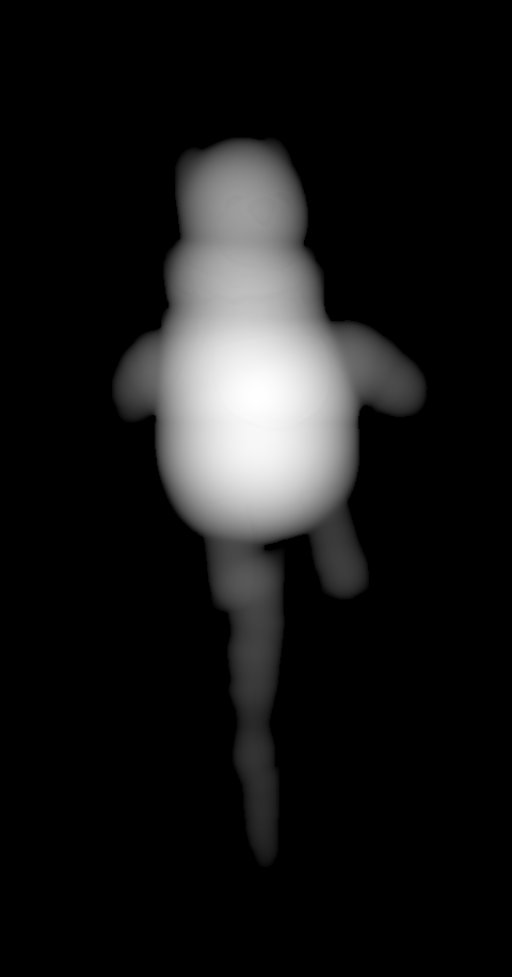
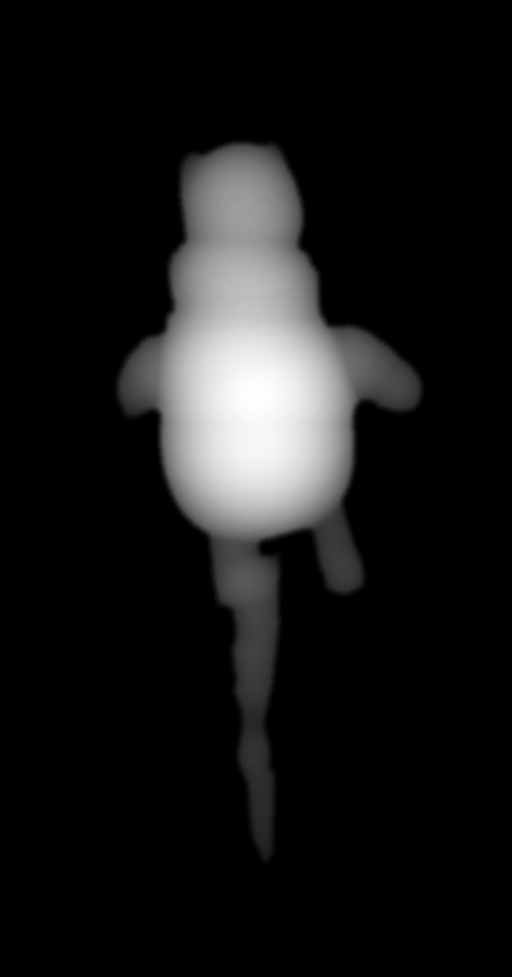
MUCH LOVED: 인형이 찢어져 보이던 것 고침(앞뒷면 테두리 맞붙게·깊이 읽는 방식 통일·테두리 배경색 띠 제거)
Claude-Session: https://claude.ai/code/session_012fgrQSuz8bdMe6fYoW4Pch

diff --git a/js/muchloved.js b/js/muchloved.js
@@ -238,7 +238,8 @@ function wearMaterial(d) {
       .replace('#include <map_fragment>', `#include <map_fragment>
         vec3 wr = texture2D(uWear, vWUv).rgb;
         float n1 = vn(vWUv * 90.0), n2 = vn(vWUv * 23.0);
-        float tear = min(wr.g, 0.72) + (n1 - 0.5) * 0.25 + (n2 - 0.5) * 0.2;
+        // 결 무늬는 해진 자국이 있는 곳에만(만지지 않은 곳에 얼룩이 생기지 않게)
+        float tear = min(wr.g, 0.72) + ((n1 - 0.5) * 0.25 + (n2 - 0.5) * 0.2) * smoothstep(0.02, 0.12, wr.g);
         // 손때: 문지른 만큼 어둡고 누렇게, 결을 따라 얼룩지게
         float dirt = clamp(wr.r * (0.7 + n2 * 0.6) * 1.3, 0.0, 1.0);
         diffuseColor.rgb = mix(diffuseColor.rgb, diffuseColor.rgb * vec3(0.42, 0.34, 0.26), dirt);
@@ -255,7 +256,7 @@ function wearMaterial(d) {
       .replace('#include <emissivemap_fragment>', `#include <emissivemap_fragment>
         totalEmissiveRadiance += vec3(1.0, 0.72, 0.36) * uGlow * (gW * 0.32 + 0.08) * (0.6 + 0.4 * n1);`);
   };
-  m.customProgramCacheKey = () => 'wear6';
+  m.customProgramCacheKey = () => 'wear7';
   return m;
 }
 
@@ -263,11 +264,11 @@ function wearMaterial(d) {
 const dolls = new Map(); // id → doll (만들어진 것)
 const making = new Map(); // id → Promise
 let _th = null;
-const thick = () => _th || (_th = fetch(A + 'r/depth.json?v=1').then((r) => r.json()).catch(() => ({})));
+const thick = () => _th || (_th = fetch(A + 'r/depth.json?v=3').then((r) => r.json()).catch(() => ({})));
 function makeDoll(id) {
   if (making.has(id)) return making.get(id);
   const p = (async () => {
-    const [col, dep, nor, TH] = await Promise.all([tex(A + `r/${id}_color.webp`, 1), tex(A + `r/${id}_depth.png`), tex(A + `r/${id}_normal.webp`), thick()]);
+    const [col, dep, nor, TH] = await Promise.all([tex(A + `r/${id}_color.webp?v=2`, 1), tex(A + `r/${id}_depth.png?v=4`), tex(A + `r/${id}_normal.webp?v=4`), thick()]);
     if (!col) return null;
     const asp = col.image.width / col.image.height;
     // 인형마다 실제 두께(둥근 단면, tools/muchloved-relief/relief2.py) — 없으면 예전 값
@@ -302,18 +303,22 @@ function makeDoll(id) {
 function backMesh(col, dep, asp, bz) {
   const im = col.image, w = 512, h = Math.round(512 / asp);
   const c = document.createElement('canvas'); c.width = w; c.height = h; const x = c.getContext('2d');
-  x.filter = `blur(${Math.round(w * 0.022)}px) saturate(0.8) brightness(0.78)`; x.drawImage(im, 0, 0, w, h); x.filter = 'none';
+  x.filter = `blur(${Math.round(w * 0.012)}px) saturate(0.9) brightness(0.9)`; x.drawImage(im, 0, 0, w, h); x.filter = 'none';
   x.globalCompositeOperation = 'destination-in'; x.drawImage(im, 0, 0, w, h); // 원래 테두리(알파)는 그대로
   const bt = new THREE.CanvasTexture(c); bt.colorSpace = THREE.SRGBColorSpace;
   // 깊이를 꼭짓점에 직접 옮김(빛·그림자가 실제 굴곡을 따르게)
-  const sx = 120, sy = Math.max(48, Math.round(120 / asp));
+  const sx = 200, sy = Math.max(64, Math.round(200 / asp));
   const geo = new THREE.PlaneGeometry(asp, 1, sx, sy);
-  const dc = document.createElement('canvas'); dc.width = sx + 1; dc.height = sy + 1; const dx = dc.getContext('2d', { willReadFrequently: true });
-  dx.drawImage(dep.image, 0, 0, sx + 1, sy + 1); const dd = dx.getImageData(0, 0, sx + 1, sy + 1).data;
+  // 앞면(displacementMap, GPU 선형 보간)과 똑같이 읽어야 테두리에서 앞뒤가 꼭 맞음 → 원본 크기에서 선형 보간
+  const DW = dep.image.width, DH = dep.image.height;
+  const dc = document.createElement('canvas'); dc.width = DW; dc.height = DH; const dx = dc.getContext('2d', { willReadFrequently: true });
+  dx.drawImage(dep.image, 0, 0); const dd = dx.getImageData(0, 0, DW, DH).data;
+  const at = (x, y) => dd[(Math.min(DH - 1, Math.max(0, y)) * DW + Math.min(DW - 1, Math.max(0, x))) * 4] / 255;
   const pos = geo.attributes.position, uv = geo.attributes.uv;
   for (let i = 0; i < pos.count; i++) {
-    const u = uv.getX(i), v = uv.getY(i), px = Math.round(u * sx), py = Math.round((1 - v) * sy);
-    const z = dd[(py * (sx + 1) + px) * 4] / 255; pos.setZ(i, -z * bz);
+    const fx = uv.getX(i) * DW - 0.5, fy = (1 - uv.getY(i)) * DH - 0.5, x0 = Math.floor(fx), y0 = Math.floor(fy), ax = fx - x0, ay = fy - y0;
+    const z = (at(x0, y0) * (1 - ax) + at(x0 + 1, y0) * ax) * (1 - ay) + (at(x0, y0 + 1) * (1 - ax) + at(x0 + 1, y0 + 1) * ax) * ay;
+    pos.setZ(i, -z * bz);
   }
   geo.computeVertexNormals();
   const m = new THREE.Mesh(geo, new THREE.MeshStandardMaterial({ map: bt, alphaTest: 0.5, roughness: 0.92, side: THREE.DoubleSide }));
@@ -506,7 +511,7 @@ dsecs.forEach((s) => near.observe(s));
 let active = null; // 지금 만질 수 있는 인형 장면 { s, d }
 function layout() { const H = innerHeight, Wd = innerWidth; renderer.setSize(Wd, H, false); camera.aspect = Wd / H; camera.updateProjectionMatrix(); }
 addEventListener('resize', layout); layout();
-let tx = 0, ty = 0, rx = 0, ry = 0, mouse = null;
+let tx = 0, ty = 0, rx = 0, ry = 0, mouse = null, dbgTurn = null; // dbgTurn: 시험용 각도(#debug)
 addEventListener('pointermove', (e) => { if (e.pointerType === 'mouse') mouse = { x: e.clientX / innerWidth * 2 - 1, y: e.clientY / innerHeight * 2 - 1 }; });
 const clock = new THREE.Clock();
 let anyOn = false, lastActive = null;
@@ -535,6 +540,7 @@ function frame() {
     const sway = Math.sin(t * 0.33 + d.asp * 3) * 0.32 * idle;
     sp.rotation.set(rx * 1.1 + Math.sin(t * 0.5 + d.asp) * 0.03 * idle, turnIn + ry * (TURN / MAX) + sway, 0);
     sp.position.set(0, 0, 0.12 + (enter + leave) * 0.25); sp.scale.set(1, 1, 1);
+    if (dbgTurn != null) { sp.rotation.set(0, dbgTurn, 0); d.g.rotation.set(0, 0, 0); }
     if (d.mode === 'roll') { sp.rotation.z = -d.rz * 0.55; sp.position.x += d.rz * Math.min(0.3, VW * 0.18 / hT); }
     if (d.done) { // 다 채움: 한 바퀴 돌며 떠오르고, 금빛이 숨 쉬듯
       const k = clamp((performance.now() - d.doneAt) / 1800, 0, 1), e = k < 0.5 ? 2 * k * k : 1 - Math.pow(-2 * k + 2, 2) / 2;
@@ -1000,4 +1006,4 @@ document.title = `MUCH LOVED — ${ARTIST} | ARTMOS`;
 { const dm = document.querySelector('meta[name=description]'); if (dm) dm.content = t('닳고 해진 애착 인형을 손끝으로 다시 만나는 온라인 전시. 김규진 《MUCH LOVED》.'); }
 langSwitcher($('.ml-top'), { before: sb, cls: 'ml-lang' });
 $('.ml-sleep-h').textContent = t('들어 올리면 깨어나요');
-if (location.hash === '#debug') window.__ml = { sensor, dolls, get active() { return active; }, tearStep, shakeNow, stamp, measure, resetDoll, hugIds, snd, get cur() { return cur; } };
+if (location.hash === '#debug') window.__ml = { sensor, dolls, get active() { return active; }, tearStep, shakeNow, stamp, measure, resetDoll, hugIds, snd, get cur() { return cur; }, set turn(v) { dbgTurn = v; } };

diff --git a/muchloved.html b/muchloved.html
@@ -33,6 +33,6 @@
   <main id="ml"></main>
   <div id="ml-sleep" class="ml-sleep" hidden><p class="ml-sleep-t">00:00</p><p class="ml-sleep-h">들어 올리면 깨어나요</p></div>
   <video id="ml-cam" playsinline muted hidden></video>
-  <script type="module" src="js/muchloved.js?v=12"></script>
+  <script type="module" src="js/muchloved.js?v=15"></script>
 </body>
 </html>

diff --git a/tools/muchloved-relief/relief2.py b/tools/muchloved-relief/relief2.py
@@ -37,6 +37,10 @@ def run(folder):
         m = cv2.morphologyEx(m, cv2.MORPH_OPEN, np.ones((3, 3), np.uint8))
         z = inflate(m)
         z = cv2.GaussianBlur(z, (0, 0), 1.6) * m       # 공 사이 이음매만 살짝 고르게
+        # 가장자리에서 두께가 0이 되게(2026-11-25): 둥근 단면은 테두리에서 가파르게 솟아서
+        # 앞면·뒷면이 테두리에서 만나지 못하고 틈이 벌어져 '찢어진' 것처럼 보였음
+        de = cv2.distanceTransform(m, cv2.DIST_L2, 5).astype(np.float32)
+        e = np.clip(de / 10.0, 0, 1); z *= e * e * (3 - 2 * e)   # 테두리 10px 안에서 부드럽게 0으로(격자 4칸쯤)
         # 천의 주름·솔기: 사진 밝기의 잔결을 아주 조금
         g = cv2.cvtColor(cv2.resize(col[:, :, :3], (w, h), interpolation=cv2.INTER_AREA), cv2.COLOR_BGR2GRAY).astype(np.float32) / 255
         hp = g - cv2.GaussianBlur(g, (0, 0), 4)

diff --git a/tools/muchloved-relief/edgebleed.py b/tools/muchloved-relief/edgebleed.py
@@ -1,0 +1,14 @@
+# 오린 인형 테두리에 묻은 배경색(흰 띠)을 안쪽 천 색으로 채움 (2026-11-25)
+# 테두리 3px만 바꾸고 알파(모양)는 그대로. 쓰는 법: python3 edgebleed.py assets/muchloved/r
+import cv2, numpy as np, sys, glob
+for p in sorted(glob.glob(sys.argv[1] + '/*_color.webp')):
+    im = cv2.imread(p, cv2.IMREAD_UNCHANGED); a = im[:, :, 3]
+    inside = (a > 127).astype(np.uint8)
+    d = cv2.distanceTransform(inside, cv2.DIST_L2, 5)
+    band = (inside > 0) & (d <= 3.5)
+    core = ((d > 3.5) * 255).astype(np.uint8)
+    # 안쪽 색을 바깥으로 번지게: 가려진 곳(band) 채우기
+    rgb = im[:, :, :3].copy(); mask = (band | (inside == 0)).astype(np.uint8) * 255
+    filled = cv2.inpaint(rgb, mask, 5, cv2.INPAINT_TELEA)
+    im[:, :, :3][band | (inside == 0)] = filled[band | (inside == 0)]
+    cv2.imwrite(p, im, [cv2.IMWRITE_WEBP_QUALITY, 88]); print(p)

diff --git a/CLAUDE.md b/CLAUDE.md
@@ -20,7 +20,7 @@
 | `bitssal.html` + `js/bitssal.js` | A-003 빛쌀 단독 스크롤 스토리 (캔버스 쌀알 1,900개, 15장면). **PART 1 순이의 이야기**(prologue→life→hunger→demand→street→spread→erased→boundary→mine→truth→light — **2026-11-18 소유자: 광주(1980 주먹밥) 장 'share'는 뺌**, 장 번호는 빛이 10, 글·체험 코드는 파일에 남겨 둠: 이야기·조작만, 기록·사진·영상 없음) → **PART 2 작품과 기록**(work: 조형물·사진·작품 영상 / records: 짧은 기록 7장 / archive). **장마다 읽기 → 체험 순서**(2026-11-14): 장 표지(번호·제목, 이때 쌀알·그림은 거의 꺼짐) → 이야기 카드(읽는 동안 얼굴만 그리고 장면 그림은 흐리게, 숫자·라벨 숨김, 조작·센서는 받지 않음) → 한 화면 띄우고 '체험' 카드(이때부터 조작). 예전 떠오르는 장 제목(chap-flash)은 없앰. **하나씩, 여유 있게**(소유자 요청): 장 표지는 번호→제목→선 차례로, 이야기 카드는 쌀 얼굴이 먼저 그려지고(1.4초) 문단이 함께 나타남(2문단 정도는 한 번에 괜찮음, 소유자), 읽을 시간(글자 수로 4~14초)이 지나야 체험이 열림(`runSeq`, 카드가 화면 밖이면 멈춤). **한 번에 하나만**: 얼굴을 그리는 동안 다른 쌀알·장면 그림은 거의 끔(97%), 장 표지 때도 거의 끔, 위로 지나간 장 표지·이야기 카드는 `.past`로 사라짐. **체험 카드는 바로 앞 이야기를 다 읽어야 열림**(`.card.play.locked` → `opened`, 잠긴 동안 조작·센서 안 받음, '위의 이야기를 다 읽으면 체험이 열려요'). 카드 사이 간격·장 끝 여백을 넓힘(종류가 바뀔 때 크게: 표지→이야기 0.55화면, 이야기→다음 0.9, 체험→다음 0.6, 다른 카드→이야기 0.6). **휴대폰(앱)만: 쌀알이 끊기지 않고 모양을 바꿔 흐름**(2026-11-16, PC는 예전대로): 첫 화면은 쌀알로 된 《빛쌀》 조형물(`sculpt`, 상단 머리와 아래 글 사이에 맞춤, 유리 테두리 `glassW` 안에서만) + 아래 글('한 톨의 쌀알에 얽힌 이야기 / 아흔 살 순이가 대구에서 겪은 일', 4개 언어) → 흩어짐(`dust`) → 아흔 살 순이 얼굴 → '한 그릇 더' → 흩어짐 → **장 제목(이때는 흩어진 채) → 제목이 지나가면 그 장의 모양(`SHAPE_OF`, `js/bitssal-shapes.js`) → 그 모양이 그대로 인물 얼굴로**(얼굴 없는 장은 글이 올라올 때까지 모양 유지) → 글 → 흩어짐 → 체험 카드가 아래에 붙으면(`.docked`) 체험. 모양: 밥상(table)·쌀독(jar)·쌀 한 톨(grain)·등잔(lamp, 켜지 않은)·지도(spread)·경찰(police, 이목구비 없음)·고무신(shoes)·밥 한 그릇(bowl)·7(seven)·주먹밥(riceball)·불꽃(flame). 모드 `mm`: title > face > play > shape > intro > dust. 다른 글('4년 뒤' 등)이 보이면 모양을 띄우지 않음. 장 표지 → 이야기 사이 0.9화면, 다른 글 → 이야기도 0.9화면. **글 뒤 어두운 바탕·테두리 없음**(글자 그림자만, 붙은 체험 카드 아래만 옅은 그라데이션). **휴대폰 체험 바뀜**(`MOB`, 문구 `mia`): ①밥상 = 폰을 주걱처럼 숙였다 들면(`watchScoop`, 기울기 tiltY 흔들림) 가운데 솥에서 밥을 떠 그릇에 담음(3번에 한 그릇, 솥을 눌러도 됨) ②쌀독 = 큰 쌀독만, 흔들어 털면 바닥에 쌀이 쌓임 ④밤 = 새벽에 오빠 얼굴 겹치던 것 뺌 ⑥낮은 목소리 = 체포영장 같은 옛 문서(일러스트, '문서는 이해를 돕기 위한 일러스트')가 먼지에 덮여 있다가 후 불기(마이크)·문지르기로 드러남. **광산부터 줄임**: 광산(손전등)·주먹밥(돌리기) 체험 카드 없음, 빛은 누르기·들어 올리기만(마이크·AR 버튼 뺌), 7월은 그대로. 작품 장 조형물은 기울이면 흐르는 속도만 바뀜(밀림·흔들림 없음). **기억을 위한 한 문장**: 남기면 글자 하나하나가 입력칸에서 불빛처럼 떠올라 빛 장면 하늘(`.mem-sky`, 최근 5문장)에 머묾(PC도 같음, 캔버스 빛 점은 뺌). **마지막 '전시 행성 나가기'**(예전 'ARTMOS 행성계로 돌아가기'가 #story의 pointer-events 때문에 안 눌렸음): 앱 안이면 `postMessage({type:'artmos:close-exhibit'})` → `app.js`가 전시를 닫음, 웹이면 홈으로. **스크롤 끊김 줄이기**(2026-11-17): 쌀알은 색·크기별로 한 번 그려 둔 그림(`grainSprite`)을 회전해서 찍기만 함(매 프레임 도형 1,900개를 새로 그리지 않음, 다 찍은 뒤 `gReset()`), 화면 밖·안 보이는 쌀알은 건너뜀, 흩어진 쌀알은 2/3만, 휴대폰 캔버스는 1.5배 해상도, 주소창 때문에 높이만 조금 바뀌는 resize는 무시(캔버스·카드 다시 배치 안 함), 휴대폰은 화면 전체 필름 입자 애니메이션 멈춤·글자 그림자 한 겹. 측정(휴대폰 크기, CPU 4배 느리게): 쌀알 그리기 JS 프레임당 약 21ms → 11ms. **스크롤 속도 맞춤**(2026-11-17 소유자: 빈칸 줄이기): 휴대폰만 카드 사이 빈칸을 줄임(`GAP_M`: 장 표지→얼굴 이야기 0.35·얼굴 없는 이야기 0.55, 이야기→다음 0.4, 체험→다음 0.4, 체험 뒤 0.6, 기본 간격 0.07, 장면 기본 길이 ×0.75, 얼굴 자리 `.st-stage` 82→70svh — 얼굴 크기는 화면 폭으로 정해져 그대로) → 휴대폰 전체 길이 79화면 → 약 56화면(390px), PC는 그대로 68화면. 붙은 체험 카드는 붙기 전 높이(`_natH`)로 배치해 아래가 들썩이지 않게. 장면·카드 위치는 배치할 때 한 번 재 두고(`GEO`, `cacheGeo()`, `rect(el)`) 프레임마다는 scrollY만 빼서 씀(매 프레임 getBoundingClientRect 17곳 → 0). 쌀알 움직임은 프레임 길이로 보정(`FR`, 120Hz·느린 프레임에서도 같은 빠르기)하고 빨리 스크롤하면(`SCR`, 1.5화면/초면 최대) 더 빨리 모여 글을 바로 따라옴. 진행 막대는 width 대신 transform scaleX. 첫 장면(prologue)은 기본 길이를 줄이지 않음(줄이면 아래 글이 올라가 조형물이 상단 머리와 겹침). 붙은 체험 카드는 가로 스크롤 금지(`overflow-x: hidden`, 예전 그라데이션 조각이 카드 밖으로 나가 아이폰에서 글이 옆으로 밀렸음), 바탕 그라데이션은 카드 안에. 맨 위·아래에서 당길 때 출렁임은 `overscroll-behavior-y: none`. **얼굴·글 한 화면 + 장 모양 머물기**(2026-11-18 소유자): 얼굴 자리 `.st-stage` 70→44svh, 얼굴 크기는 `min(얼굴 자리 높이/2.2, 화면 폭×0.42)`라 얼굴(위아래 약 2배)이 자리 안에 맞고 아래 글 상자와 한 화면에 같이 보임. 장 제목이 지나 나온 장 모양은 적어도 `SHAPE_MIN`(2.4초) 머문 뒤 얼굴·글로 바뀜(빨리 내려도 한 번은 보여 줌, 장마다 한 번), 모양→얼굴 바뀜은 약 1.4초로 천천히, 장 표지→얼굴 이야기 간격 0.35→0.5. **상단 바 위치(2026-11-18)**: 앱 안 전시 틀(iframe)에서는 아이폰이 상태 표시줄 높이(`env(safe-area-inset-top)`)를 0으로 줘서 상단 바가 시계 줄과 겹쳤음 → 빛쌀은 `--sat` 변수로 상단 바·진행 막대·목차·HUD 위치를 잡고, 앱 안 아이폰이면 `bitssal.js` 첫머리가 화면 높이로 어림(852 이상 59px·812 이상 47px·그 밖 20px), 앱이 `postMessage({type:'artmos:safe', top})`로 정확한 값을 보내면 그걸 씀(`app.js` 전시 틀 load 때 보냄 — 앱 틀이라 다음 앱 빌드부터). `bitssal.html` viewport에 `viewport-fit=cover`. **얼굴 없는 이야기엔 물건**(2026-11-18 소유자): 휴대폰에서 얼굴 없는 이야기 카드(밤·번짐·낮은 목소리·한 그릇 더)도 얼굴 자리(`.st-stage`, `data-obj`)를 두고 그 장의 물건(`SHAPE_OF`: 등잔·지도·경찰·밥그릇)을 얼굴처럼 그림(`objPoints`: 높이 2·폭 2.1에 맞춤, 장 모양에서 그대로 옮겨 감). **쌀독 체험**: 털어낸 만큼 독 안 쌀알 수가 줄어 40번 털면 빈 독(예전엔 바닥으로 눌리기만 해서 차 보였음). **대구까지 거리**(번짐 체험, 휴대폰): 위치를 받으면 번짐 약도 위 '지금 나' 자리에서 대구까지 쌀알 360개가 2.5초에 걸쳐 한 줄로 이어지고 가운데 km 표시, 대구 고리가 깜빡임(`geoTrail`, `geoXY` — 지역 덩어리에 맞춘 대략의 투영, 지도 밖·해외면 대구에서 그 방향 지도 끝), 결과 글 끝에 '약도 · 실제 위치와 조금 다를 수 있어요'(4개 언어 `GEO_T`). 위치는 기기 안에서만 씀. 시험 `#debug`면 `window.__bs`(state). **전체 점검(2026-11-18)**: 빛쌀 번호 A-003 → **A-002**(닫힌 전시를 빼고 다시 매긴 번호, `bitssal.js` 맨 위 `NUM`·`bitssal-scenes.js` p0·`bitssal.html` 제목 — 번호가 바뀌면 셋 다), 탭 아이콘(`artmos-mark.svg`) 넣어 favicon 404 없앰, **일본어·중국어 줄바꿈**: `word-break: keep-all`(한국어용)이 띄어쓰기 없는 일본어·중국어 문단을 한 줄로 만들어 휴대폰에서 화면이 옆으로 137px 넘쳤음 → `html:lang(ja|zh)`면 글자 단위 줄바꿈(`bitssal.css`·`style.css` 끝, 최초의 방 등 전시 페이지도 같이). 4개 언어×휴대폰·PC로 모든 장을 내려가며 체험을 열고 누르는 자동 점검: 오류 0, 카드 겹침 0, 가로 넘침 0. **휴대폰 상단 바 자동 숨김**(2026-11-17 소유자): 아래로 24px 넘게 스크롤하면 머리·진행 막대가 위로 숨고(`body.top-hide`), 위로 14px 올리면 다시 나옴. 맨 위(120px 안)·목차 열린 동안은 늘 보임. PC는 그대로. 측정(390px, CPU 4배 느리게, 30화면 스크롤): 스크립트 시간 −14%, 레이아웃 횟수 1,019 → 약 480. **휴대폰 배치**(2026-11-14): 이야기 카드 위쪽은 투명한 얼굴 자리(`.st-stage`, 46vh)로 비우고 글은 아래 상자(`.st-box`)에 — 쌀 얼굴이 그 자리에 그려져 카드와 함께 스크롤됨(작은 초상은 숨김). 체험 카드는 화면 아래에 고정(`.docked`, 다음 카드·다음 장이 보이기 전에 내려감), 쌀알 무대 중심은 화면 38% 높이. 글 카드엔 어두운 바탕, 큰 연도 숫자는 휴대폰에서 숨김, 입장 화면·상단 머리는 뒤가 비치지 않게. **내레이션 녹음 붙임**(2026-11-18): 한국어 12개 `assets/narration/ko/ko_<키>.mp3`(prologue·life·hunger·demand·street·spread·erased·boundary·mine·truth_1·truth_2·light, 128kbps 모노, 합계 4.4MB, 소유자가 보낸 01~12를 이 순서로 — 11번이 7월 두 번째 이야기인지 소유자 확인 필요). 이야기 카드에 `data-nk`(장 이야기가 둘이면 `_1`·`_2`). 소리를 켠 사람에게만, 이야기 글이 나타나면(`c._shown`) 그 카드 녹음을 틀고 배경 소리는 0.35로 낮춤, 글 상자가 화면을 벗어나거나 다른 이야기로 가거나 소리를 끄거나 영상을 틀면 멈춤, 끝까지 들은 카드는 다시 틀지 않음. **녹음이 끝나야 체험이 열림**(`_narrWait`, 멈춰도 길이+4초 뒤엔 열림). 아이폰은 첫 터치 때 0.1초 무음을 틀어 재생을 풀어 둠(이미 읽는 중이면 건드리지 않음, 막히면 다음 터치 때 다시). 얼굴이 보일 때 파일을 미리 받음. 다른 언어는 `NARR_LANGS`에 넣고 `en/en_life.mp3`처럼 넣으면 됨. 시험: `#debug`면 `window.__narr`. 예전 기기 음성 `js/bitssal-narrator.js`는 안 씀(남겨 둠). 이야기 문단은 하나씩 나타남, 가장자리 어둡게+필름 입자. 렌더 루프는 오류가 나도 멈추지 않게 `draw()`를 try로 감쌈. 끝부분에 모바일 전용 블록(흔들기·AR) |
 | `sansa.html` + `js/sansa.js` + `css/sansa.css` | **A-004 산사, 잠시 머물다** 3D 온라인 산사 (Three.js, 기획 제안 프로토타입, 조계종 협력 가정·협의 전 — 실제 주최로 표시하지 말 것, 로고·공식 문구 사용 금지). 산문 → 돌길 마당(석등) → 계단 → 법당 '고요당'(VALIX 현판·후불벽 무늬·불상·초·연등·방석). 캐릭터(작은 방랑자 스님, 이름표는 앱 항해명 `valix-me`)를 뒤에서 따라감. 휴대폰: 앞으로 기울이면 걷기·몸을 돌리면 방향(나침반)·흔들면 목탁·엎었다 들면 절·화면 보며 돌리면 염주·방석에 앉아 엎어 두면 좌선(들면 종). PC: WASD/방향키·끌기. 하단 합장·절하기·목탁·염주·앉기, 상단 나가기·소리·설정(기울여 걷기/나침반 끄기, 자세 다시 맞추기), 염불 듣기('나무아미타불'을 목소리 합성 — 성대 톱니파+포먼트 필터, 세 사람 합창, 음절마다 목탁, 화면에 음절 자막). 소리: 목탁은 나무 울림 합성, 압축기·리미터로 휴대폰 스피커 음량 확보, iPhone 무음 스위치 대응(`navigator.audioSession='playback'`+무음 오디오), 앱 전환·권한 창 뒤 자동 재개. `#debug`면 `window.__snd`(소리 테스트용). 접속자 수·다른 사람 아바타는 서버가 필요해 아직 없음. `#debug`면 `window.__st` 노출 |
 | `silnat.html` + `js/silnat.js` + `css/silnat.css` + `js/silnat-art.js` | **c007 A-003 실낱 같은 희망(김바늘, 작가 동의 받음, 2026-11-17 공개, 무료)** — `data/cells.json` c007(url·month 2026-11·poster·logo 칸), 포스터 `assets/posters/c007-*`, 월간 호 2026-11·2026-12.  스크롤 한 줄 붉은 실 전시, **센서 없음**. 첫 장면은 원작 Take 1·2(작가 허락, 원작 사진의 선을 벡터로 옮김 `assets/silnat/take1-ink.svg`·`take2-ink.svg`, 변환 `tools/silnat-trace.py` — 고해상도 원본 받으면 다시 뽑기)를 스티키로: 선이 나타남 → 숨 쉼(인물만 `clip-path`로 떼어 scale, 머리카락 흔들림 필터는 무거워서 뺌) → 고개를 듦(Take 1→2 겹쳐 바뀜) → 구석의 붉은 실. 그 실 끝에서 진짜 실(두 가닥 꼬임·보풀·그림자, `redThread`)이 이어져 다섯 사람(가상의 인물·전시 문안: 정옥·민재·영호·란·서윤) 장면 그림(`sceneSVG`, 검은 실 스케치·인물 이목구비 없음)을 차례로 감고 다시 그 방 발치까지 감. 실은 가장자리를 따라 내려가 장면 사이 빈 곳에서만 건넘(`route`), 가로로 가거나 감길 땐 늦게 나타나 그 자리에 머묾. 실은 280px 조각 SVG로 나눠 제자리에 두고 보이는 조각만, 바늘이 지나는 조각에만 mask. 매듭 짓기(선택), 아직 수놓이지 않은 장(Take 3~5), PART 2 작품 정보·크레딧, 끝에 109·마들랜 한 줄. 문서 `docs/exhibitions/c007-silnat/`. 한·영·중·일(글은 `silnat.js`의 `TEXT`, 외국어엔 장면마다 배경 한 줄, 109 대신 '가까운 상담 기관') |
-| `muchloved.html` + `js/muchloved.js` + `css/muchloved.css` | **c008 MUCH LOVED(김규진, 작가 계약·3D 공개 포함·사진 사용 허락, 2026-11-18 공개, 무료)** — 애착 인형 조각 15점. `data/cells.json` c008(url·month 2026-11,2026-12), 월간 호 2026-11 표지(첫 장)·2026-12, 포스터·로고 `assets/posters/c008-*`(소유자가 준 소파 설치 사진·손글씨 로고, 포스터는 3:4로 위아래를 조금 자름). **v3(2026-11-19 소유자: 3D를 더 적극적으로, 옆으로 넘기지 말고 쭉 스크롤)**: 화살표·좌우 넘기기 없이 **세로 스크롤 하나**. 0 쥐기(꾹 누르면 심장 박동·글 6줄, '들어가기'에서 동작 권한) → 장 표지 → 레진 인형 10점이 한 장면씩(`.dsec` 230svh, 붙박이 칸 `.stk`를 따라 3D가 함께 오르내림, 두 인형이 겹쳐 지나갈 때도 둘 다 그림): 액자 7(SNOW·DINO·FLOOPY·HOBBY·FU FU·PEANUT·MOON) → 서랍(TOMMY 사진, **내려갈수록 서랍이 열림** + 몸 쪽으로 당겨 세우기) → 소파 3(JAKE·PEANUT·MAS, 내려갈수록·기울이면 쿠션이 벌어짐) → 두 손으로 감싸기(두 손가락 이상·꾹, 덤으로 카메라 밝기) → 은빛 바닥(알루미늄 4 사진, 쓸면 **입김처럼 흐렸다 다시 맑아짐**·기울이면 빛, '금속은 닳지 않아요') → 잠들기(엎어 두기·손바닥 얹기·버튼) → 5 **당신이 남긴 자국**(인형마다 손때·해진 곳·납작해진 곳 %) + 나의 인형 이름표(`valix-muchloved-tag`) → 6 맺음. **입체를 더 깊게(2026-11-20 소유자: 다소 평면적)**: 인형마다 **뒷면**(`backMesh`: 앞면 사진을 흐리게 해 얼굴 없는 천 뒷모습 + 깊이를 꼭짓점으로 옮겨 뒤로 0.3, 앞면과 가장자리에서 만나 닫힌 몸통, 앞면 깊이 0.36), 스크롤로 들어올 때·나갈 때 **옆으로 약 77° 돌며** 두께·뒷모습이 보이고, 머무는 동안 기울기·마우스로 ±42° 돎(액자째로는 ±10°만 → 시차). 액자 인형은 **3D 액자 상자**(`frameBox`: 흰 틀 깊이 0.62·안쪽 짙은 판·핀 조명 웅덩이), 소파 인형은 **3D 천 쿠션**(`sofaCatcher`→`pillow` 등받이·앉는 자리, PEANUT은 앞 쿠션 사이에서 귀만 보이다 끌어 올림 — 예전 CSS 쿠션 `.cush`는 안 씀). **휴대폰 맞춤(2026-11-25 소유자: 모바일에서 소파가 잘 안 보임)**: 소파가 화면보다 넓어 회색 벽처럼만 보였음 → 양쪽 팔걸이를 붙이고, 휴대폰은 소파 폭을 좁혀(`asp×1.05+0.25`, 팔걸이 0.26) 팔걸이까지 화면 폭 95% 안에 다 들어오게 크기를 정함(`box.userData.w`). 휴대폰 액자는 화면 폭 80%(PC 84%). **스포트라이트**(`spot`) 하나가 화면 가운데 인형을 따라가며 실제 그림자(앞·뒷면 모두 `customDepthMaterial`로 투명한 곳 빼고)를 액자 안·쿠션에 드리움, 휴대폰 그림자 지도 1024. 인형 입체 체험: 앞면 입체(`assets/muchloved/r/<id>_color·_depth·_normal`) + 인형마다 **자국 지도** 캔버스(256px, R 손때·G 해진 곳·B 눌림/반들)를 `MeshStandardMaterial.onBeforeCompile`이 읽음(B는 오목+그늘+거칠기 낮춤=반들, uPull로 잡아당김). **인형마다 체험 하나씩(2026-11-19 소유자: 각 인형별로 다른 체험, 하나씩만, `MODE`)**: SNOW 문지르기(손때) · DINO 후~ 불기(마이크·버튼, 손때 많은 곳부터 해진 곳이 30%까지 자라며 비어져 나온 솜·솜 입자) · FLOOPY 꾹 누르기(300ms 넘게 가만히, 1.2초면 최대, 놓으면 조금 납작하게 남음) · HOBBY 흔들기(센서·버튼, 해진 틈에서 솜이 떨어짐) · FU FU 꼭 껴안기(두 손가락 이상 또는 꾹, 인형이 폭 눌리며 1.1초마다 박동) · PEANUT(액자) 톡톡 두드리기(두드린 자리가 반들반들) · MOON 잡아당기기(끌면 천이 늘어나고 놓으면 돌아옴, 세게 당기면 실밥이 터져 솜) · JAKE 기울이기(PC는 끌기, 소파 위를 구르며 아래쪽에 먼지 자국) · PEANUT(소파) 꺼내기(앞 쿠션 `.cush.f` 틈에서 위로 끌어 올림) · MAS 이름 부르기(마이크 `micLevel`·버튼, 목소리에 몸을 돌리고 빛이 밝아짐). **다 채우면 바뀜(2026-11-25 소유자: 100% 채워도 변화가 없음)**: 인형마다 진행 막대(`.d-prog`, `progOf`: 손때 40%·해진 곳 28%·누르기 5번·흔들기 12번·안기 8초·두드리기 20번·당기기(번+실밥×2) 8·굴리기 8·꺼내기 찾음·부르기 3번) → 100%면 `complete()`: 한 바퀴 돌며 떠오름(1.8초), 남긴 자국이 금빛으로 숨 쉬듯 빛남(셰이더 `uGlow`, 닳은 자리=사랑받은 자리), 금빛 가루(`sparkle`, 덧셈 혼합), 스포트라이트가 따뜻하게, 종소리·박동, 안내 글이 '다 채웠어요'+인형마다 한 문장(`DONE_LINE`), 막대 금빛. '원래대로'면 처음으로(`undone`). 5장에 '다 채운 인형 n / 10'. **PC·노트북은 다른 체험(2026-11-25 소유자: 웹은 PC에서 할 수 있는 경험으로 앱과 다르게, `PC = !IS_MOBILE`, 문구 `TEXT_PC`)**: SNOW 마우스를 올려 쓰다듬기(누르지 않아도) · DINO 스페이스바 누르고 있기(+마이크 버튼) · FLOOPY 인형 위에서 휠 굴리기(굴린 만큼 깊이, 멈추면 자국) · HOBBY 잡고 좌우로 세게 흔들기(방향이 바뀔 때마다 한 번, `d.wob`로 흔들림) · FU FU 인형 둘레를 마우스로 한 바퀴 그리기(`circ`, 4.2초 안음) · PEANUT(액자) 키보드 아무 글자로 톡톡(마우스가 가리킨 자리) · MOON·PEANUT(소파) 끌기 그대로 · JAKE ← → 키(+끌기) · MAS 키보드로 이름 M·A·S 쓰기(`.d-type` 글자 칸, +마이크 버튼). 두 손으로 감싸기 = 마우스로 동그라미 + 스페이스바 함께(한쪽만이면 안내), 카메라 버튼은 '두 손으로 웹캠을 가려 보기'. 잠들기 = 손 떼고 10초 가만히(3초부터 카운트다운, 마우스 움직이면 깨어남) 또는 노트북 덮기(`visibilitychange`). 첫 화면은 마우스·스페이스바 꾹. 휴대폰 체험은 그대로. 버튼은 그 체험에 필요한 것만(휴대폰: 불기·흔들기·부르기, PC: 마이크로 불기·부르기), 자국이 남는 체험만 작은 '원래대로'. 아래 글줄(`.d-meter`)과 5장 '당신이 남긴 자국'에 인형마다 다른 기록(손때 %·○번 눌렀어요·○초 동안 안았어요·터진 실밥 ○곳·찾았다 등). 인형이 바뀌면 지난 인형의 솜 입자는 치움. **소리(2026-11-19 소유자: 체험 소리와 배경음)** `js/muchloved-sound.js`(`snd`, 음원 파일 없이 Web Audio 합성): 배경음 = 직접 지은 8마디 자장가 오르골 + 부드러운 화음 + 방 공기, 장마다 바뀜(intro 박동만 · wall 맑은 오르골 76bpm · drawer 느리게 · sofa 한 옥타브 낮고 따뜻하게 · floor 금속 종 소리로 바뀌고 태엽이 풀리듯 점점 느려짐 · sleep 거의 고요 · end 다시 밝게). 체험 소리 = 문지르기 천 스침(`rustle`, 문지른 만큼) · 불기 바람(`wind`)+실밥 찢어지는 소리+솜 · 누르기 눌림/풀림 · 흔들기 솜 털림 · 껴안기·박동마다 심장 소리(`beat()`가 냄) · 두드리기 톡 · 잡아당기기 천 삐걱(`creak`, 당긴 만큼 높아짐)+실밥 끊김 · 굴리기 소파 구르는 소리(`rumble`)·쿵 · 꺼내기 쿠션 끽끽(`squeak`)+뽁 · 부르기 대답하는 종(그 뒤 1.2초는 마이크를 듣지 않아 스스로 다시 걸리지 않게) · 서랍 미끄러짐·덜컥·종 · 쿠션 벌어지는 천 소리 · 금속 입김·작은 종 · 잠에서 깨는 종 · 바느질 한 땀 · 원래대로 종. 첫 터치에 켜지고(`xpace-sound=off`면 그대로 꺼짐), 상단 '소리 켜짐/꺼짐' 버튼(`#ml-snd`), 아이폰 무음 스위치·앱 전환 대응. 시험 `__ml.snd.level()`(출력 크기). 인형 위에서 시작한 터치만 스크롤 대신 체험(`touchstart` preventDefault), 그 밖은 그대로 스크롤. 인형마다 앞세우는 동작(`FOCUS`)만 다르고 모든 동작은 어디서나 됨. **'원래대로'** 버튼으로 언제든 작품 원래 모습, 크레딧에 '손때·해진 곳·눌림은 이 화면에만 그려지는 효과이며 작품의 실제 상태가 아님'. 자국은 페이지를 떠나면 사라짐(저장 안 함). **붙박이(sticky)가 안 되던 문제**: `body`의 `overflow-x: hidden`이 스크롤 상자를 만들어 sticky가 풀렸음 → `overflow-x: clip`. 아이폰 웹은 진동 대신 화면 가장자리 박동(`beat`). 소파 사진 속 캐릭터 장난감은 쓰지 않음. 입체 다시 만들기 `tools/muchloved-relief/`. **인형 모양 v2(2026-11-21 소유자: 인형 형태가 이상함)**: `relief2.py`(`python3 tools/muchloved-relief/relief2.py assets/muchloved/r`, 컬러 webp의 알파만으로 다시 뽑음) — 예전 relief.py는 거리 지도 제곱근을 흐려 가운데가 뾰족한 지붕 모양이었음 → 인형 안 모든 점에 들어가는 가장 큰 공을 합친 높이(`h² = max(d(q)² − |x−q|²)`)라 머리는 공·팔다리·귀는 원통, 목·팔 붙는 곳은 잘록. 두께는 인형마다 실제 비율(`r/depth.json`, 높이 1 기준 반쪽 두께) × 앞 0.8·뒤 0.7(`FRONT_K`·`BACK_K`, 인형 객체 `dz`·`bz`). 문서 `docs/exhibitions/c008-muchloved/`. **한·영·중·일(2026-11-19)**: 화면 문구는 `js/muchloved-i18n.js`의 `t('한국어 문장')`(키 = 한국어, 없으면 한국어), 작가 약력·크레딧은 키 `BIO`·`CREDIT`, 외국어 작가명 Kim Gyuzin, 상단에 언어 선택. 목록·앱 카드 번역은 `data/i18n.json` cells.c008(이때 `data.js`가 `summary`도 번역하게 함, v=37 — 앱 틀 안의 data.js는 다음 앱 빌드부터). `#debug`면 `window.__ml` |
+| `muchloved.html` + `js/muchloved.js` + `css/muchloved.css` | **c008 MUCH LOVED(김규진, 작가 계약·3D 공개 포함·사진 사용 허락, 2026-11-18 공개, 무료)** — 애착 인형 조각 15점. `data/cells.json` c008(url·month 2026-11,2026-12), 월간 호 2026-11 표지(첫 장)·2026-12, 포스터·로고 `assets/posters/c008-*`(소유자가 준 소파 설치 사진·손글씨 로고, 포스터는 3:4로 위아래를 조금 자름). **v3(2026-11-19 소유자: 3D를 더 적극적으로, 옆으로 넘기지 말고 쭉 스크롤)**: 화살표·좌우 넘기기 없이 **세로 스크롤 하나**. 0 쥐기(꾹 누르면 심장 박동·글 6줄, '들어가기'에서 동작 권한) → 장 표지 → 레진 인형 10점이 한 장면씩(`.dsec` 230svh, 붙박이 칸 `.stk`를 따라 3D가 함께 오르내림, 두 인형이 겹쳐 지나갈 때도 둘 다 그림): 액자 7(SNOW·DINO·FLOOPY·HOBBY·FU FU·PEANUT·MOON) → 서랍(TOMMY 사진, **내려갈수록 서랍이 열림** + 몸 쪽으로 당겨 세우기) → 소파 3(JAKE·PEANUT·MAS, 내려갈수록·기울이면 쿠션이 벌어짐) → 두 손으로 감싸기(두 손가락 이상·꾹, 덤으로 카메라 밝기) → 은빛 바닥(알루미늄 4 사진, 쓸면 **입김처럼 흐렸다 다시 맑아짐**·기울이면 빛, '금속은 닳지 않아요') → 잠들기(엎어 두기·손바닥 얹기·버튼) → 5 **당신이 남긴 자국**(인형마다 손때·해진 곳·납작해진 곳 %) + 나의 인형 이름표(`valix-muchloved-tag`) → 6 맺음. **입체를 더 깊게(2026-11-20 소유자: 다소 평면적)**: 인형마다 **뒷면**(`backMesh`: 앞면 사진을 흐리게 해 얼굴 없는 천 뒷모습 + 깊이를 꼭짓점으로 옮겨 뒤로 0.3, 앞면과 가장자리에서 만나 닫힌 몸통, 앞면 깊이 0.36), 스크롤로 들어올 때·나갈 때 **옆으로 약 77° 돌며** 두께·뒷모습이 보이고, 머무는 동안 기울기·마우스로 ±42° 돎(액자째로는 ±10°만 → 시차). 액자 인형은 **3D 액자 상자**(`frameBox`: 흰 틀 깊이 0.62·안쪽 짙은 판·핀 조명 웅덩이), 소파 인형은 **3D 천 쿠션**(`sofaCatcher`→`pillow` 등받이·앉는 자리, PEANUT은 앞 쿠션 사이에서 귀만 보이다 끌어 올림 — 예전 CSS 쿠션 `.cush`는 안 씀). **휴대폰 맞춤(2026-11-25 소유자: 모바일에서 소파가 잘 안 보임)**: 소파가 화면보다 넓어 회색 벽처럼만 보였음 → 양쪽 팔걸이를 붙이고, 휴대폰은 소파 폭을 좁혀(`asp×1.05+0.25`, 팔걸이 0.26) 팔걸이까지 화면 폭 95% 안에 다 들어오게 크기를 정함(`box.userData.w`). 휴대폰 액자는 화면 폭 80%(PC 84%). **스포트라이트**(`spot`) 하나가 화면 가운데 인형을 따라가며 실제 그림자(앞·뒷면 모두 `customDepthMaterial`로 투명한 곳 빼고)를 액자 안·쿠션에 드리움, 휴대폰 그림자 지도 1024. 인형 입체 체험: 앞면 입체(`assets/muchloved/r/<id>_color·_depth·_normal`) + 인형마다 **자국 지도** 캔버스(256px, R 손때·G 해진 곳·B 눌림/반들)를 `MeshStandardMaterial.onBeforeCompile`이 읽음(B는 오목+그늘+거칠기 낮춤=반들, uPull로 잡아당김). **인형마다 체험 하나씩(2026-11-19 소유자: 각 인형별로 다른 체험, 하나씩만, `MODE`)**: SNOW 문지르기(손때) · DINO 후~ 불기(마이크·버튼, 손때 많은 곳부터 해진 곳이 30%까지 자라며 비어져 나온 솜·솜 입자) · FLOOPY 꾹 누르기(300ms 넘게 가만히, 1.2초면 최대, 놓으면 조금 납작하게 남음) · HOBBY 흔들기(센서·버튼, 해진 틈에서 솜이 떨어짐) · FU FU 꼭 껴안기(두 손가락 이상 또는 꾹, 인형이 폭 눌리며 1.1초마다 박동) · PEANUT(액자) 톡톡 두드리기(두드린 자리가 반들반들) · MOON 잡아당기기(끌면 천이 늘어나고 놓으면 돌아옴, 세게 당기면 실밥이 터져 솜) · JAKE 기울이기(PC는 끌기, 소파 위를 구르며 아래쪽에 먼지 자국) · PEANUT(소파) 꺼내기(앞 쿠션 `.cush.f` 틈에서 위로 끌어 올림) · MAS 이름 부르기(마이크 `micLevel`·버튼, 목소리에 몸을 돌리고 빛이 밝아짐). **다 채우면 바뀜(2026-11-25 소유자: 100% 채워도 변화가 없음)**: 인형마다 진행 막대(`.d-prog`, `progOf`: 손때 40%·해진 곳 28%·누르기 5번·흔들기 12번·안기 8초·두드리기 20번·당기기(번+실밥×2) 8·굴리기 8·꺼내기 찾음·부르기 3번) → 100%면 `complete()`: 한 바퀴 돌며 떠오름(1.8초), 남긴 자국이 금빛으로 숨 쉬듯 빛남(셰이더 `uGlow`, 닳은 자리=사랑받은 자리), 금빛 가루(`sparkle`, 덧셈 혼합), 스포트라이트가 따뜻하게, 종소리·박동, 안내 글이 '다 채웠어요'+인형마다 한 문장(`DONE_LINE`), 막대 금빛. '원래대로'면 처음으로(`undone`). 5장에 '다 채운 인형 n / 10'. **PC·노트북은 다른 체험(2026-11-25 소유자: 웹은 PC에서 할 수 있는 경험으로 앱과 다르게, `PC = !IS_MOBILE`, 문구 `TEXT_PC`)**: SNOW 마우스를 올려 쓰다듬기(누르지 않아도) · DINO 스페이스바 누르고 있기(+마이크 버튼) · FLOOPY 인형 위에서 휠 굴리기(굴린 만큼 깊이, 멈추면 자국) · HOBBY 잡고 좌우로 세게 흔들기(방향이 바뀔 때마다 한 번, `d.wob`로 흔들림) · FU FU 인형 둘레를 마우스로 한 바퀴 그리기(`circ`, 4.2초 안음) · PEANUT(액자) 키보드 아무 글자로 톡톡(마우스가 가리킨 자리) · MOON·PEANUT(소파) 끌기 그대로 · JAKE ← → 키(+끌기) · MAS 키보드로 이름 M·A·S 쓰기(`.d-type` 글자 칸, +마이크 버튼). 두 손으로 감싸기 = 마우스로 동그라미 + 스페이스바 함께(한쪽만이면 안내), 카메라 버튼은 '두 손으로 웹캠을 가려 보기'. 잠들기 = 손 떼고 10초 가만히(3초부터 카운트다운, 마우스 움직이면 깨어남) 또는 노트북 덮기(`visibilitychange`). 첫 화면은 마우스·스페이스바 꾹. 휴대폰 체험은 그대로. 버튼은 그 체험에 필요한 것만(휴대폰: 불기·흔들기·부르기, PC: 마이크로 불기·부르기), 자국이 남는 체험만 작은 '원래대로'. 아래 글줄(`.d-meter`)과 5장 '당신이 남긴 자국'에 인형마다 다른 기록(손때 %·○번 눌렀어요·○초 동안 안았어요·터진 실밥 ○곳·찾았다 등). 인형이 바뀌면 지난 인형의 솜 입자는 치움. **소리(2026-11-19 소유자: 체험 소리와 배경음)** `js/muchloved-sound.js`(`snd`, 음원 파일 없이 Web Audio 합성): 배경음 = 직접 지은 8마디 자장가 오르골 + 부드러운 화음 + 방 공기, 장마다 바뀜(intro 박동만 · wall 맑은 오르골 76bpm · drawer 느리게 · sofa 한 옥타브 낮고 따뜻하게 · floor 금속 종 소리로 바뀌고 태엽이 풀리듯 점점 느려짐 · sleep 거의 고요 · end 다시 밝게). 체험 소리 = 문지르기 천 스침(`rustle`, 문지른 만큼) · 불기 바람(`wind`)+실밥 찢어지는 소리+솜 · 누르기 눌림/풀림 · 흔들기 솜 털림 · 껴안기·박동마다 심장 소리(`beat()`가 냄) · 두드리기 톡 · 잡아당기기 천 삐걱(`creak`, 당긴 만큼 높아짐)+실밥 끊김 · 굴리기 소파 구르는 소리(`rumble`)·쿵 · 꺼내기 쿠션 끽끽(`squeak`)+뽁 · 부르기 대답하는 종(그 뒤 1.2초는 마이크를 듣지 않아 스스로 다시 걸리지 않게) · 서랍 미끄러짐·덜컥·종 · 쿠션 벌어지는 천 소리 · 금속 입김·작은 종 · 잠에서 깨는 종 · 바느질 한 땀 · 원래대로 종. 첫 터치에 켜지고(`xpace-sound=off`면 그대로 꺼짐), 상단 '소리 켜짐/꺼짐' 버튼(`#ml-snd`), 아이폰 무음 스위치·앱 전환 대응. 시험 `__ml.snd.level()`(출력 크기). 인형 위에서 시작한 터치만 스크롤 대신 체험(`touchstart` preventDefault), 그 밖은 그대로 스크롤. 인형마다 앞세우는 동작(`FOCUS`)만 다르고 모든 동작은 어디서나 됨. **'원래대로'** 버튼으로 언제든 작품 원래 모습, 크레딧에 '손때·해진 곳·눌림은 이 화면에만 그려지는 효과이며 작품의 실제 상태가 아님'. 자국은 페이지를 떠나면 사라짐(저장 안 함). **붙박이(sticky)가 안 되던 문제**: `body`의 `overflow-x: hidden`이 스크롤 상자를 만들어 sticky가 풀렸음 → `overflow-x: clip`. 아이폰 웹은 진동 대신 화면 가장자리 박동(`beat`). 소파 사진 속 캐릭터 장난감은 쓰지 않음. 입체 다시 만들기 `tools/muchloved-relief/`. **인형 모양 v2(2026-11-21 소유자: 인형 형태가 이상함)**: `relief2.py`(`python3 tools/muchloved-relief/relief2.py assets/muchloved/r`, 컬러 webp의 알파만으로 다시 뽑음) — 예전 relief.py는 거리 지도 제곱근을 흐려 가운데가 뾰족한 지붕 모양이었음 → 인형 안 모든 점에 들어가는 가장 큰 공을 합친 높이(`h² = max(d(q)² − |x−q|²)`)라 머리는 공·팔다리·귀는 원통, 목·팔 붙는 곳은 잘록. **찢어져 보이던 것 고침(2026-11-25 소유자)**: 둥근 단면이 테두리에서 가파르게 솟아 앞·뒷면이 테두리에서 만나지 못하고 틈·톱니가 생겼음 → `relief2.py`에서 테두리 10px 안에서 두께를 부드럽게 0으로, 뒷면은 앞면(GPU 선형 보간)과 똑같이 원본 깊이 지도를 선형 보간으로 읽고 격자 200칸, 뒷면 색은 덜 흐리고 덜 어둡게, 해진 결 무늬는 해진 자국이 있는 곳에만, 오린 테두리 3px의 배경색 띠를 안쪽 천 색으로 채움(`edgebleed.py`, 원래 모양 알파는 그대로). 텍스처 주소에 `?v=` 붙여 캐시 갱신. 시험 `#debug`면 `__ml.turn = 1.3`으로 인형 각도 고정. 두께는 인형마다 실제 비율(`r/depth.json`, 높이 1 기준 반쪽 두께) × 앞 0.8·뒤 0.7(`FRONT_K`·`BACK_K`, 인형 객체 `dz`·`bz`). 문서 `docs/exhibitions/c008-muchloved/`. **한·영·중·일(2026-11-19)**: 화면 문구는 `js/muchloved-i18n.js`의 `t('한국어 문장')`(키 = 한국어, 없으면 한국어), 작가 약력·크레딧은 키 `BIO`·`CREDIT`, 외국어 작가명 Kim Gyuzin, 상단에 언어 선택. 목록·앱 카드 번역은 `data/i18n.json` cells.c008(이때 `data.js`가 `summary`도 번역하게 함, v=37 — 앱 틀 안의 data.js는 다음 앱 빌드부터). `#debug`면 `window.__ml` |
 | `coexist.html` + `js/coexist.js` + `css/coexist.css` | **c009 자연선택 — 새로운 공존의 시작(신예진, 2026-11-21 공개, 무료 — 작가 계약 전 소유자 결정으로 공개, 화면에 'ARTMOS 기획·작가와 협의 중' 표시, 작가가 원치 않으면 `data/remote.json` closed에 c009)** — 3D(Three.js r160, `useLegacyLights`). 안개 속 고목 + 줄기에 박혀 사슬에 매달린 엔진(모두 코드로 만든 모양, 작품 사진 없음). 나무 문지르기·엔진 누르기, 둘이 함께면 엔진 빛이 가지로 흐르고 이끼·새소리('공존'), 기계만 돌면 안개가 탁해짐. 소리는 earshot으로 만든 mp3 11개(`assets/coexist/snd`, 입체 HRTF), 문서 `docs/exhibitions/c009-coexist/`. 포스터·로고 `assets/posters/c009-*`(소유자가 준 그림, 로고 글자 '자연선택' → 2026-11-21 소유자: 제목을 자연선택으로, '새로운 공존의 시작'은 부제·마지막 문구). 입장 화면은 포스터를 어둡게 깔고 천천히 움직임(Ken Burns). **v2 네 장(2026-11-21 소유자: 하나뿐이라 짧다·실제 질감으로)**: 세로 스크롤 한 줄(`.ch` 섹션 190svh, 화면 가운데가 걸친 섹션이 지금 장 `ch`, `body[data-ch]`), 장이 바뀌면 카메라가 안개 속을 날아 다음 자리로(장 위치 `CH_POS` x 0·60·120·180, `VIEW`). ① 신성한 숲 = 고목+엔진 + **먹 무늬 백자 탑 10개**(Lathe, 무늬는 캔버스로 직접 그림) · 엔진 누르기·나무 문지르기·공존 ② 이끼가 덮은 나무 = 받침 위 표백된 유목, 문지른 자리마다 씨앗(`seeds`)이 생겨 이끼 900개가 번짐(`mossPct`), 산호·자갈 ③ 기계를 품은 조각 = 검은 받침 3개 위 조각(유목+톱니·베어링·용수철·관), 옆으로 밀면 돌고 관성, 부품이 따라 돎+톡톡 소리 ④ 빛을 내는 존재 = 가지 다리 6개·나무 몸통·쇠 덩어리·전조등 눈·빛 고리 5개, 꾹 누르면 `wake`가 차며 빛·낮은 울림 ⑤ 맺음(크레딧·나가기). 물체 위에서 시작한 터치만 스크롤 대신 체험(`touchstart` preventDefault), PC는 빈 곳 끌면 돌려 보기. **실제 질감**: Poly Haven·ambientCG CC0 스캔(`assets/coexist/tex`, README) — 나무껍질(색·노멀), 녹슨 쇠(색·노멀·거칠기, 회색으로 물들임), 콘크리트 바닥. 주변 빛 반사(PMREM으로 만든 어두운 전시장), ACES 톤 매핑, 스포트라이트 그림자(휴대폰 1024). 배경·나비·불티는 지금 장을 따라감(`decor`). 소리: 3장 톱니 루프·4장 낮은 울림을 장 자리에 입체로. **움직이는 배경**(2026-11-21 소유자: 화려하게): 둘레 하늘 셰이더(기계=호박빛 줄기·나무=초록 결·공존=위의 빛·반짝임), 멀리 큰 톱니 9개, 나비 24마리(잎·놋쇠, 나무·기계가 깨어날수록 늘어남), 떠오르는 불티·꽃가루, 빛줄기(`updateBackdrop`). **주의**: 시트가 살아 있으면 `data/cells.json`의 새 전시는 **blocks가 하나라도 있어야** 목록에 들어감(`data.js` loadLiveData) — c009는 cover 블록 하나를 둠. 한국어만. `#debug`면 `window.__co` |
 | `screen.html` + `js/screen.js` · `remote.html` + `js/remote.js` · `js/screen-link.js` · `js/qr.js` · `css/screen.css` | **ARTMOS SCREEN — 큰 화면 + 휴대폰 컨트롤러(2026-11-19 소유자: 럭키그랩(luckygrab.joystream.co.kr)처럼 큰 화면을 폰으로 조작, 앱 하단 탭 추가)**. 기술·디자인은 직접 만든 것(럭키그랩의 JoyStream 특허 방식·브랜드·가챠는 쓰지 않음, 흐름만 참고: QR 스캔 → 폰 조이스틱 → 결과는 폰에만). **큰 화면** `screen.html`(사이니지·노트북·데스크톱 브라우저, 가로·세로 모두): 아무도 없으면 가운데 큰 QR + 입장 숫자 4자리 + 3단계 안내, 누가 들어오면 오른쪽 위 작은 QR·숫자 + 아래 참여자 줄(모양·이름·별 수·남은 시간). `?kiosk=1`이면 도구 숨김·마우스 0.8초 뒤 숨김, '전체 화면' 버튼, 화면 꺼짐 막기. **체험 = 장승효 · 나비의 정원(2026-11-21 소유자: '캡슐 뽑기 말고 장승효 작가의 전시로, 다양한 나비로 많은 사람이 함께' — 행성 뽑기·별자리는 없앰, 옛 코드는 git 기록에)**. 작가 작품 이미지의 전시·게임 사용 허락 있음(소유자 확인 2026-11-21). 작품 2점 `assets/screen/jangsh-art-1.webp`(969×434)·`-2.webp`(700×700), 작품 속 나비를 오려 낸 그림 `jangsh-bf-1·2.webp`(GrabCut+색 힌트, 몸통 축 `BODY` .51·.495). **작품 이름은 아직 모름** → `ARTS[].title` 비워 두면 '장승효 작가의 나비'로 표시, 작가에게 받으면 넣기. **작품 조각 모으기(협동, 2026-11-21 소유자: 가운데 퍼즐 판이 배경을 다 가려서 다른 게임으로 — 판 없음)**: 화면 전체가 무대. 작품에서 떼 낸 동그란 조각(흰 테두리, 금빛 테두리는 5개, 10%)이 가장자리에서 날아와 떠다님(사람 수만큼 늘어 최대 34개). 폰마다 나비 한 마리(최대 `MAX_P` 40) — **여러 모양 `FORMS` 8가지**(같은 두 그림을 크기·날개 폭·날갯짓 빠르기·좌우로 다르게, 덜 쓰인 모양부터 나눠 줌). 나비는 몸통을 축으로 날개를 접었다 폄, 움직이는 쪽으로 기울고 이름표. 조각에 닿으면 그 나비에게 빨려 들어가 점수(폰에 '조각 n'), 고리·반짝임. 모두의 목표 `total` = 30+사람×15(40~400, 사람이 들어오면 늘어남, `goalFor`·`setGoal`). 모을수록 뒤 배경 작품이 또렷·선명해짐(`BG.wake`). 위에 진행 막대 '함께 모은 조각 n/목표'. **다 모으면 만개**: 작품이 화면 가운데에 활짝 드러나고 나비 70마리가 아래에서 쏟아져 오름(`shower`), '모두 함께 활짝 피웠어요'·참여 나비 수·가장 많이 모은 나비 3, 폰마다 완성 카드(작품·내가 모은 조각·순위·'장승효 작품 소장하러 가기' → 웹 `collect.html`, 앱 안이면 `artmos:go-tab`{tab:'shop'} → `app.js`가 컬렉트 탭으로), `NEXT_AFTER` 22초 뒤 다음 작품으로 새 판(작품 번갈아). 게임 중엔 배경 소용돌이 조각을 옅게 해 모을 조각이 눈에 띄게. **크기**(2026-11-23 소유자: 너무 작아 보임): 나비 화면 짧은 변의 26%, 날개는 42%까지만 접힘, 모을 조각 반지름 5%(24~62px), 만개 나비 18%, 배경 나비 8%, 이름표 글자 14~22px. '힘껏 날갯짓'(1.6초마다) = 0.7초 2배 빠르기+반짝임. 사람이 없으면 QR 안내 뒤로 흐린 나비 3마리가 날아다님(대기 화면). **움직이는 배경**(2026-11-21 소유자: 화려하게, BLUECANVAS 영상 같은 느낌): `drawBg` — 지금 작품을 크게 깔아 천천히 돌고 숨 쉼, 따뜻한 빛 번짐, 작품에서 떼 낸 동그란 조각(사탕·꽃·보석) 130개가 가운데서 바깥으로 소용돌이, 반짝이 십자 빛, 작은 나비 6마리, 가장자리·가운데 살짝 어둡게. 위 제목 줄은 어두운 띠, 이름표는 검은 테두리 글자. 사람이 많을수록 폰이 덜 자주 보냄(`hzFor`: 초당 합계 90번 안쪽, 한 대 3~15번, 화면이 `rate`로 알려 줌) — Supabase 무료 실시간 한도 때문, 아주 큰 행사면 유료 요금제 확인. 큰 통로로 모두에게 `prog`(진행률, 0.9초마다)·`round`·`rate`, 폰 통로로 `welcome`(나비 그림 주소·모양 이름)·`got`·`complete`. `#debug`면 `__scr.finishAll()`로 바로 만개 시험. 큰 화면 QR·숫자 카드는 오른쪽 아래, 알림은 왼쪽 위. **휴대폰** `remote.html`: 앱 설치 없이 QR(`remote.html?c=숫자`)로 들어오거나 앱 스크린 탭에서. 숫자·이름 → 연결 → 둥근 조이스틱(손잡이가 내 나비 그림, 밀어서 기본) / 기울여서(누른 때 자세가 가운데, `sensors.js` tiltX·Y) + '힘껏 날갯짓' 버튼, 위에 내 조각 수·함께 완성 % → 완성 카드. 앱 안이면(`?app=1`) 상단 바를 상태 표시줄 아래로(`--sat`, 빛쌀과 같은 방법), 나가기는 `artmos:close-exhibit`. **연결** `screen-link.js`: Supabase Realtime 브로드캐스트(기존 프로젝트·공개 publishable 키, 서버에 저장 안 함). 통로 `artmos-scr-<숫자>`(폰이 join, 화면 presence로 같은 숫자 쓰는 화면이 있으면 숫자를 바꿈) + 폰마다 `artmos-scr-<숫자>-<pid>`(입력·결과는 여기만 → 다른 폰에 안 감). 폰은 바뀔 때만 입력(-1~1 속도 벡터, 빈도는 사람 수에 따라), 3초마다 ping, 화면은 3초마다 hb. 10초 소식 없으면 나간 것. `?local=1`이면 같은 브라우저 창끼리 BroadcastChannel(인터넷 없이 시험: `screen.html?local=1` 열고 QR 주소에 local=1이 붙음). **QR**은 `js/qr.js`가 직접 만듦(라이브러리 없음, 오류 정정 M·버전 1~6, OpenCV로 읽기 확인). 아직 한국어만. `#debug`면 `window.__scr`·`window.__rmt` |
 | `js/sakamoto-lab.js` | **A-004 async(류이치 사카모토) 센서 소리 실험 4가지** — 블록 type `async`(어긋난 박자: 일곱 추가 조금씩 다른 박자로 울림, 기울이면 더 어긋남·흔들면 다시 맞춤·엎으면 고요·추를 눌러 끄고 켜기), `rain`(빗소리: 기울여 바람·빗줄기, 누르면 빗방울 음, 엎어 두거나 버튼으로 양동이 속 금속 울림), `forest`(세계의 소리 360°: 시냇물·새·바람과 나무·빙하 물방울·먼 피아노, 나침반으로 몸을 돌리면 바라보는 쪽 소리가 커짐·앞으로 기울이면 가까이, PC는 끌기·소리 점 누르기), `silence`(고요: 엎어 두거나 버튼/스페이스를 10초 누르면 라(A) 한 음과 'Ars longa, vita brevis'). 모두 실시간 합성, 화면에 보일 때만 소리·그림. 블록은 `data/cells.json`에 `extra: true`, order 4.5/5.5/5.7/8.5로 있고, `data.js`가 시트에 같은 종류가 없으면 끼워 넣음. 번역은 `data/i18n.json`의 `c004:4.5` 등 |
